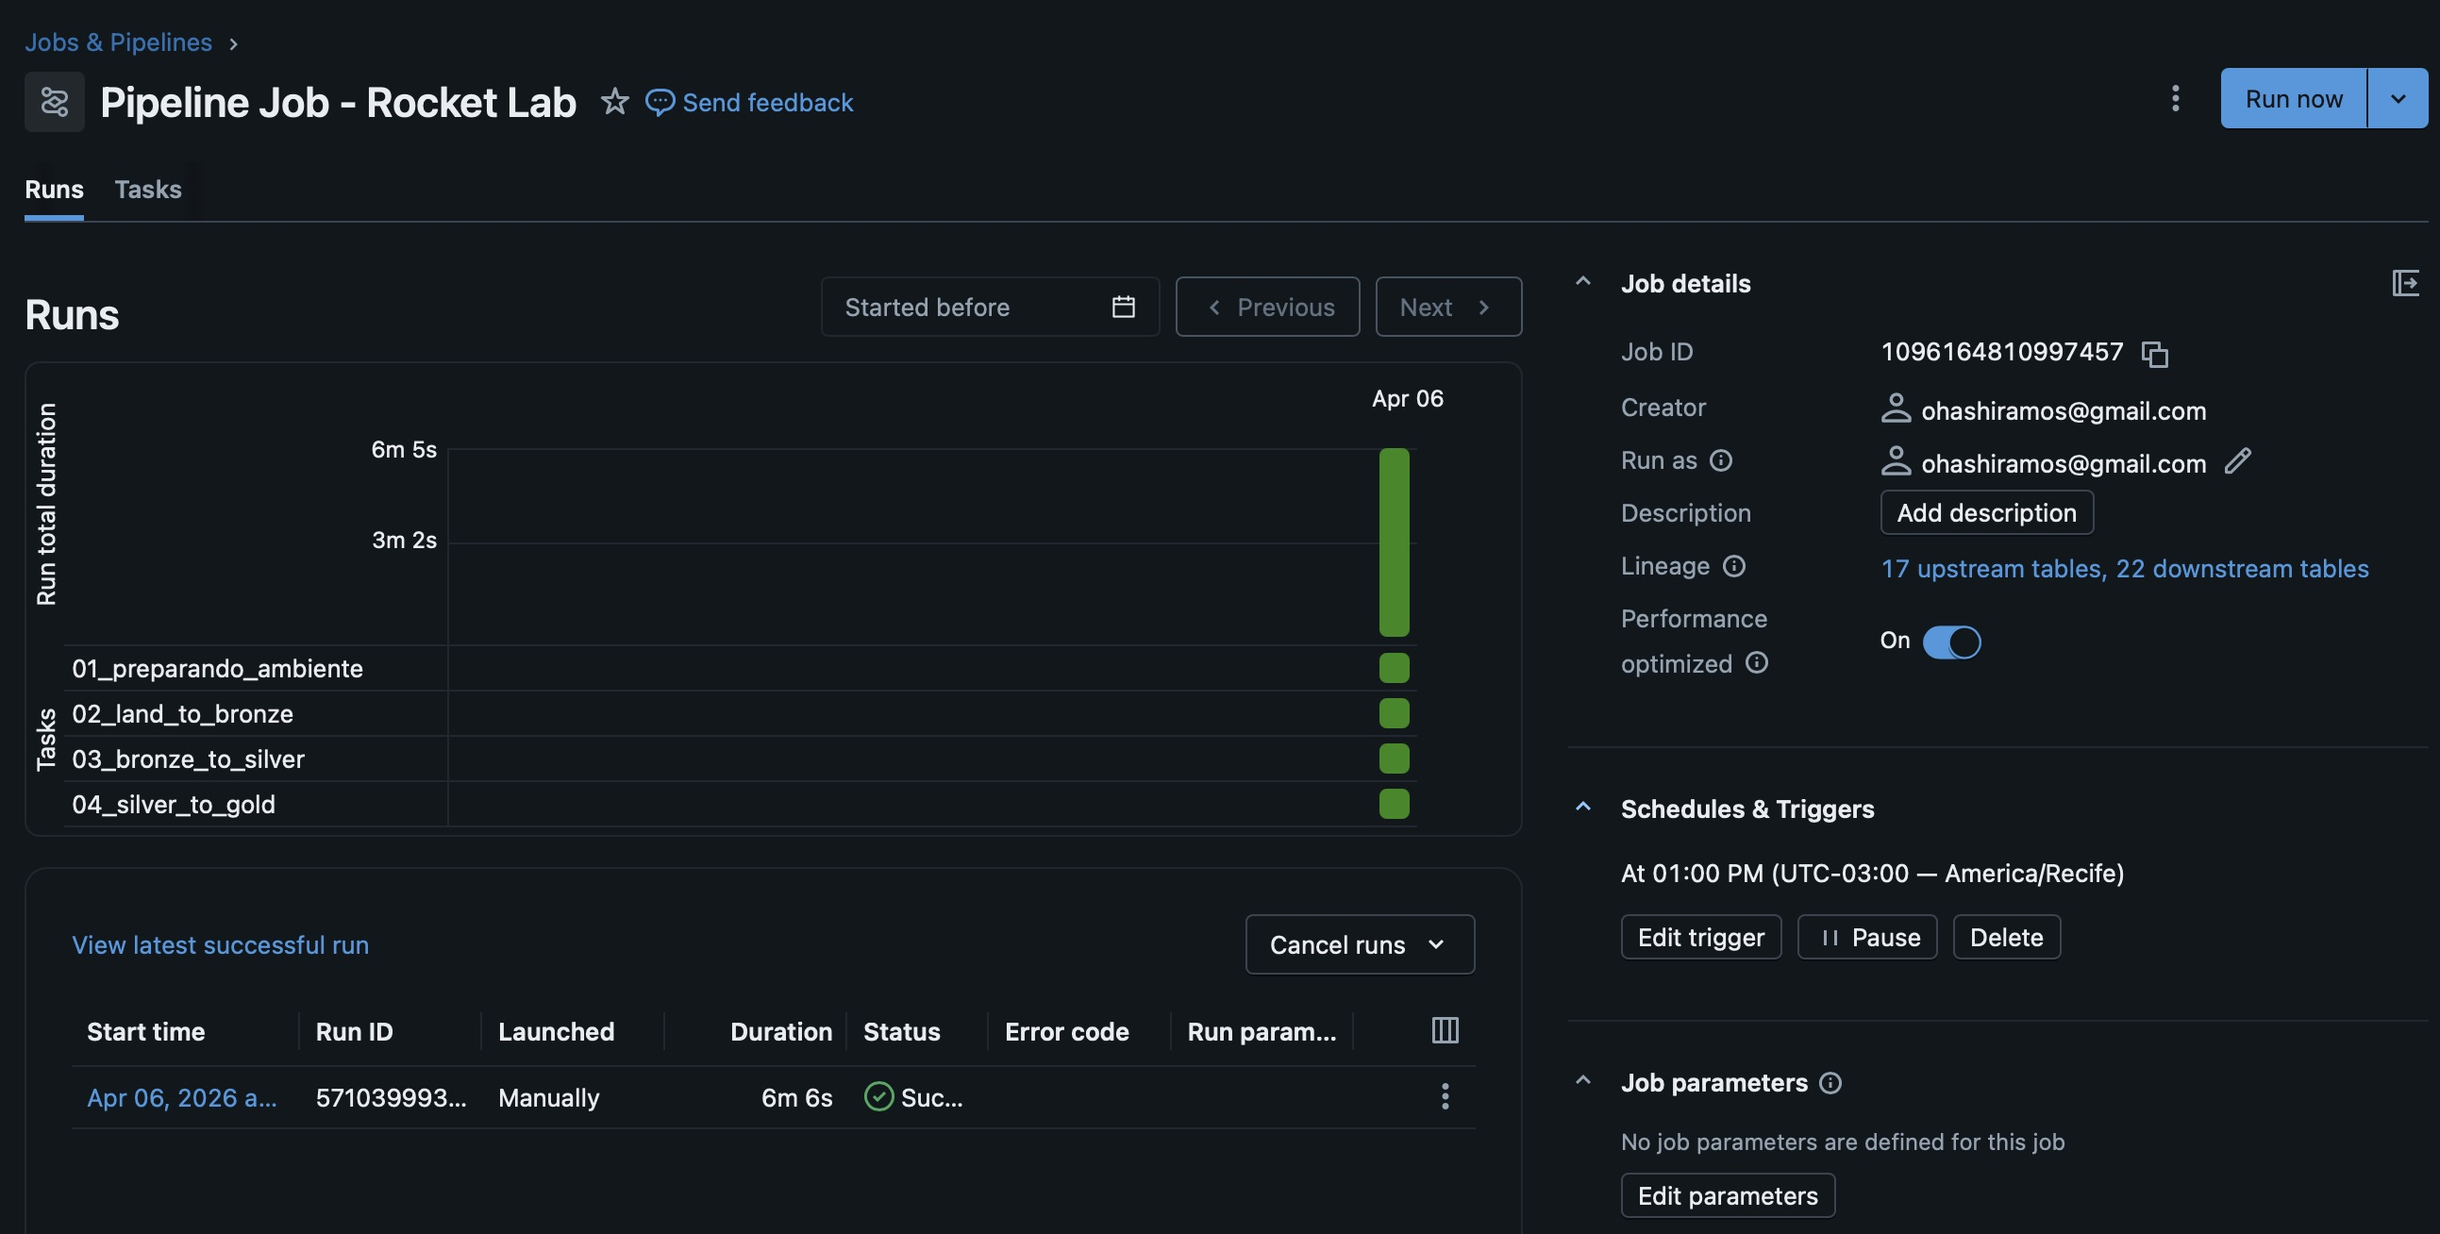
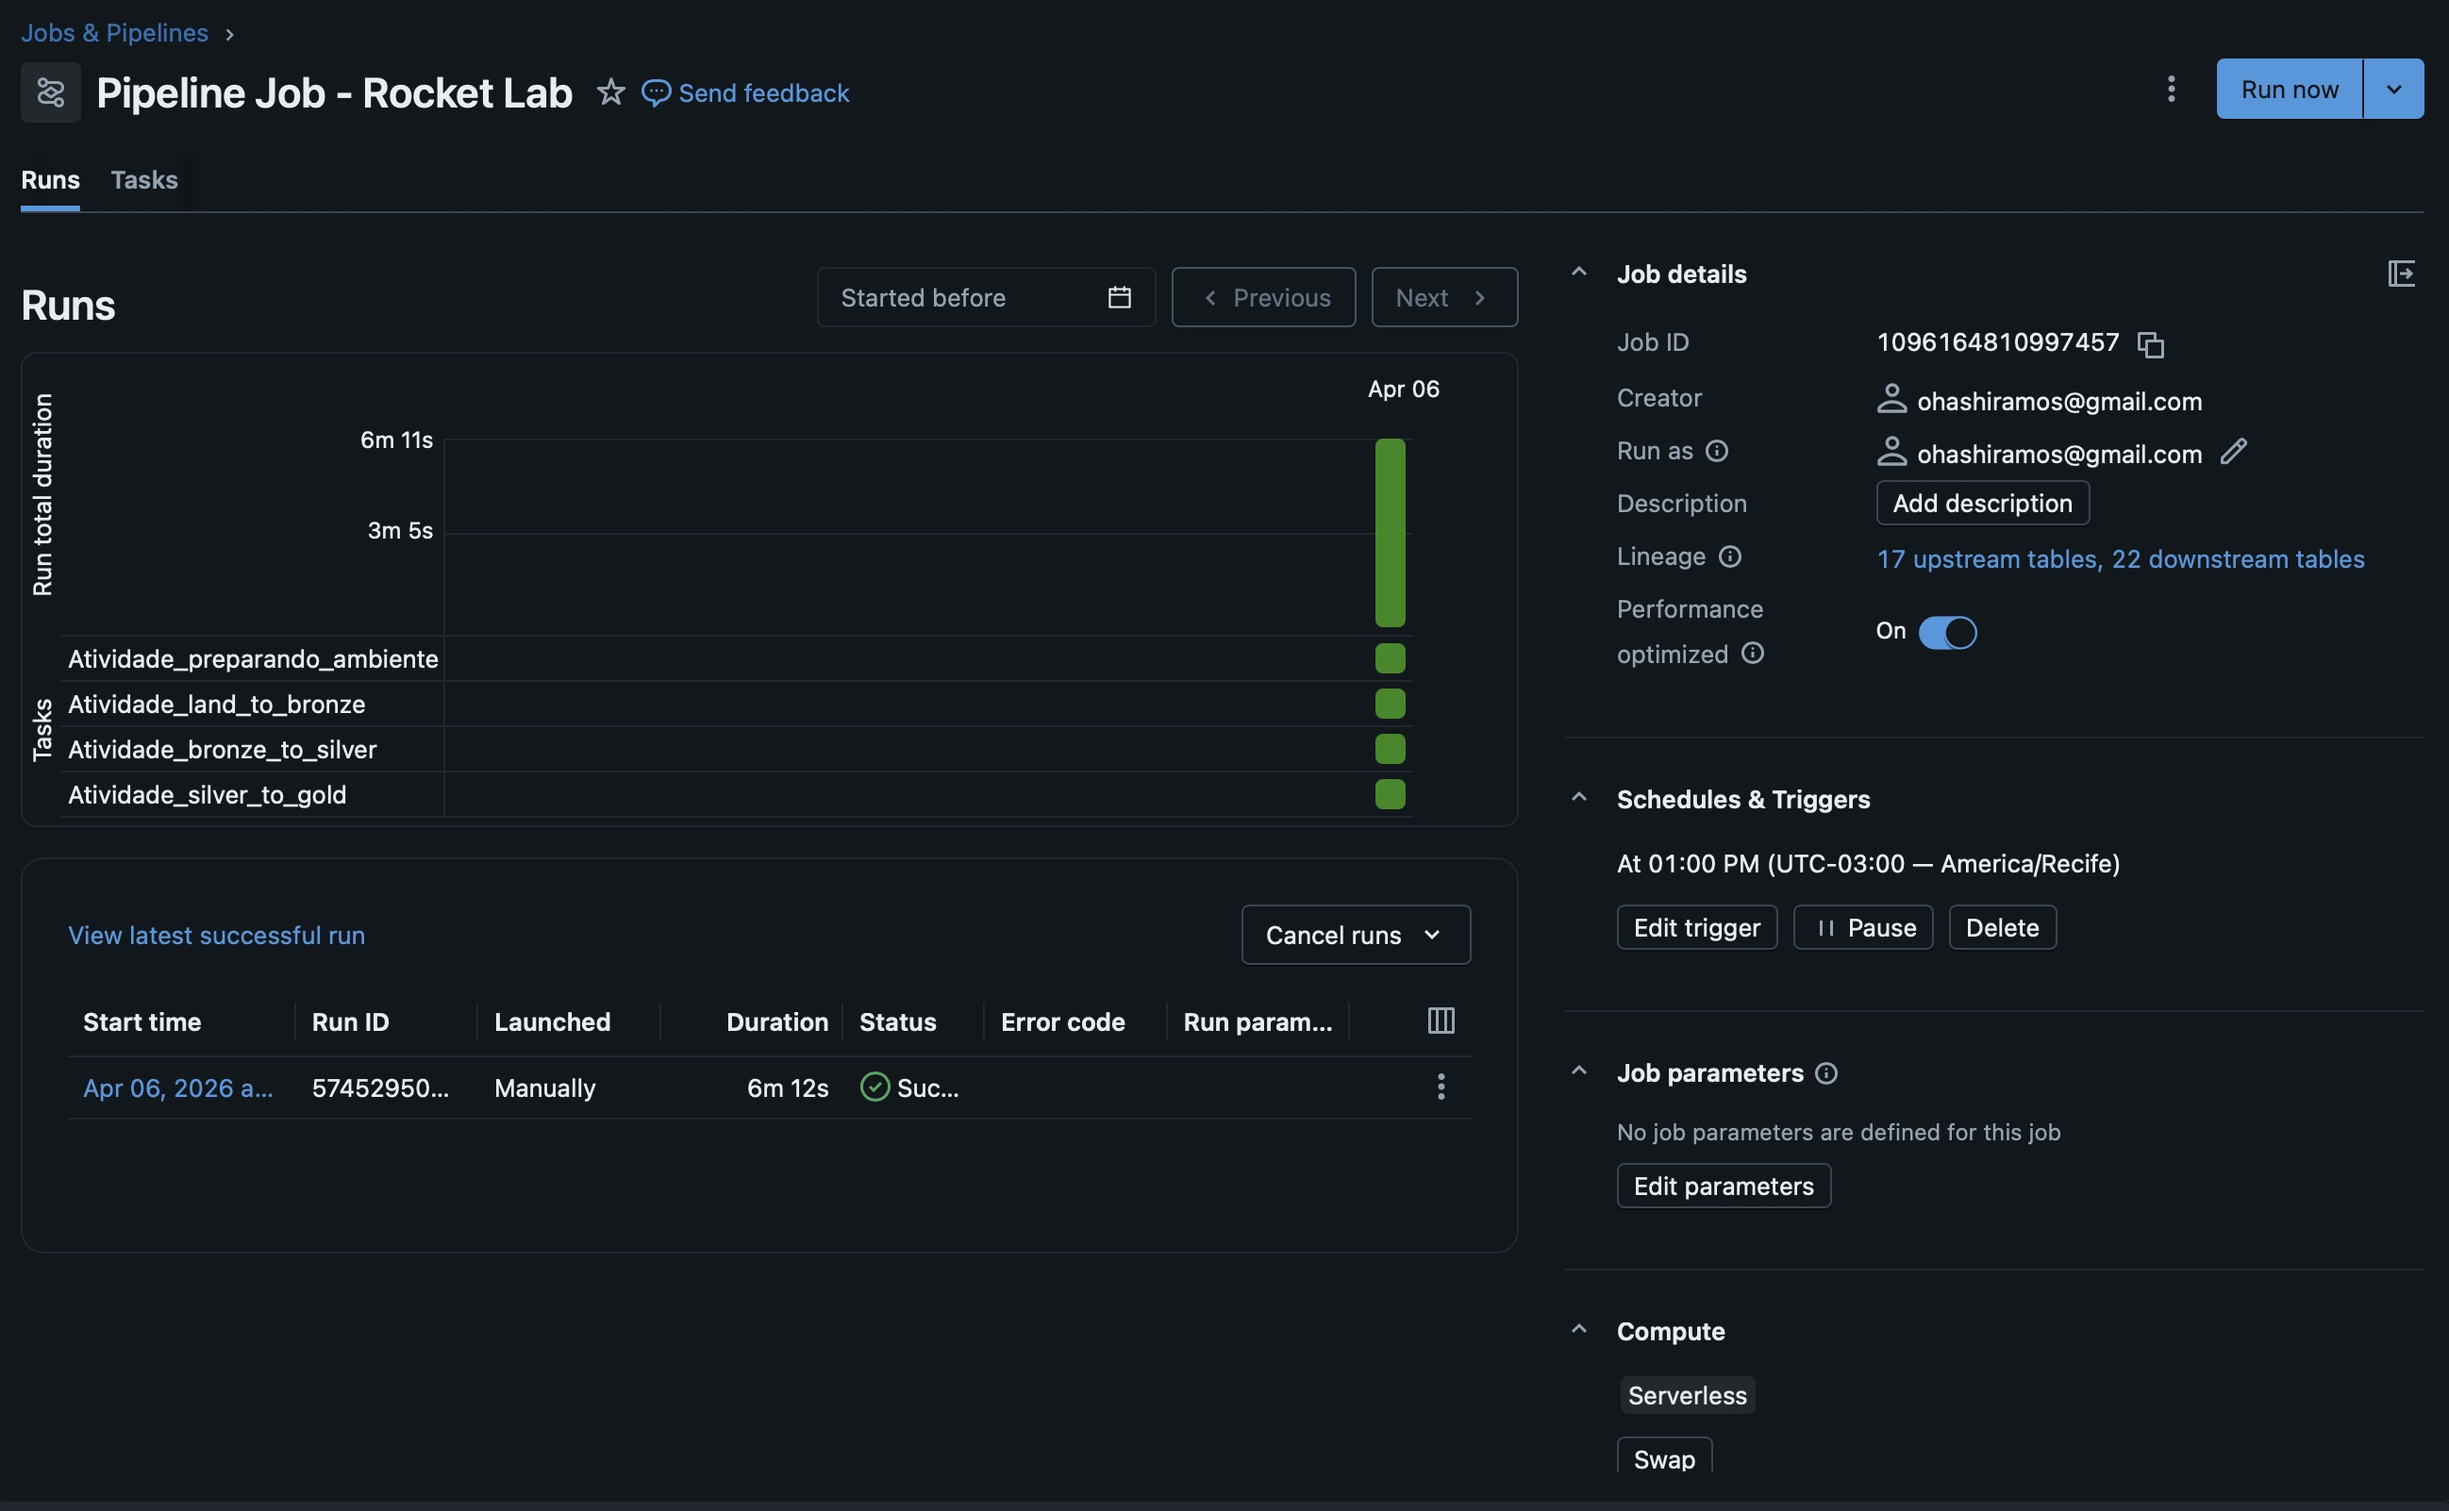
refactoring project for it to match the deploy expectations

diff --git a/README.md b/README.md
@@ -123,22 +123,22 @@ Este projeto implementa um pipeline de dados end-to-end que:
 
 | # | Nome | Descrição | Duração Est. |
 |---|------|-----------|--------------|
-| 00 | **00_atividades.ipynb** | Checklist e status do projeto | - |
-| 01 | **01_preparando_ambiente.ipynb** | Setup inicial - Catalog, Schemas, Volumes | 1-2 min |
-| 02 | **02_land_to_bronze.ipynb** | Ingestão de CSVs da landing → Bronze | 5-10 min |
-| 03 | **03_bronze_to_silver.ipynb** | Transformação e validação → Silver | 15-20 min |
-| 04 | **04_silver_to_gold.ipynb** | Análises e insights → Gold | 5-10 min |
+| 00 | **Atividades.ipynb** | Checklist e status do projeto | - |
+| 01 | **Atividade_preparando_ambiente.ipynb** | Setup inicial - Catalog, Schemas, Volumes | 1-2 min |
+| 02 | **Atividade_land_to_bronze.ipynb** | Ingestão de CSVs da landing → Bronze | 5-10 min |
+| 03 | **Atividade_bronze_to_silver.ipynb** | Transformação e validação → Silver | 15-20 min |
+| 04 | **Atividade_silver_to_gold.ipynb** | Análises e insights → Gold | 5-10 min |
 
 ### Fluxo de Execução
 
 ```
-01_preparando_ambiente
+Atividade_preparando_ambiente
         ↓
-02_land_to_bronze
+Atividade_land_to_bronze
         ↓
-03_bronze_to_silver
+Atividade_bronze_to_silver
         ↓
-04_silver_to_gold
+Atividade_silver_to_gold
 ```
 
 ---
@@ -154,7 +154,7 @@ Este projeto implementa um pipeline de dados end-to-end que:
 
 1. **Preparar o Ambiente**
    ```
-   Execute o notebook: 01_preparando_ambiente.ipynb
+  Execute o notebook: Atividade_preparando_ambiente.ipynb
    - Cria catálogo 'medalhao_at'
    - Cria schemas: bronze, silver, gold
    - Cria volume 'landing'
@@ -162,7 +162,7 @@ Este projeto implementa um pipeline de dados end-to-end que:
 
 2. **Ingerir Dados**
    ```
-   Execute o notebook: 02_land_to_bronze.ipynb
+  Execute o notebook: Atividade_land_to_bronze.ipynb
    - Lê CSVs da landing
    - Armazena em tabelas Delta (Bronze)
    - Adiciona timestamp_ingestion
@@ -170,7 +170,7 @@ Este projeto implementa um pipeline de dados end-to-end que:
 
 3. **Transformar e Limpar**
    ```
-   Execute o notebook: 03_bronze_to_silver.ipynb
+  Execute o notebook: Atividade_bronze_to_silver.ipynb
    - Remove duplicatas com Window Functions
    - Valida regras de negócio
    - Preenche valores nulos com estratégias específicas
@@ -179,14 +179,18 @@ Este projeto implementa um pipeline de dados end-to-end que:
 
 4. **Gerar Insights**
    ```
-   Execute o notebook: 04_silver_to_gold.ipynb
+  Execute o notebook: Atividade_silver_to_gold.ipynb
    - Cria tabelas analíticas
    - Calcula métricas de negócio
    - Gera rankings e comparações
    ```
 
 ### Agendamento
-O pipeline está configurado para executar **diariamente às 13h** com as 3 tasks em sequência (Bronze → Silver → Gold).
+O pipeline está configurado para executar **diariamente às 13h** com 4 tasks em sequência:
+1. Atividade_preparando_ambiente
+2. Atividade_land_to_bronze
+3. Atividade_bronze_to_silver
+4. Atividade_silver_to_gold
 
 ---
 
@@ -280,19 +284,17 @@ Agregação: categoria_produto, nome_vendedor, estado_vendedor
 ## 📈 Status do Projeto
 
 ### ✅ Completo
-- [x] Preparação do ambiente (01)
-- [x] Ingestão Bronze (02)
-- [x] Transformação Silver (03)
-- [x] Análises Gold (04)
+- [x] Preparação do ambiente (Atividade_preparando_ambiente)
+- [x] Ingestão Bronze (Atividade_land_to_bronze)
+- [x] Transformação Silver (Atividade_bronze_to_silver)
+- [x] Análises Gold (Atividade_silver_to_gold)
 - [x] Otimização e performance
-- [x] Agendamento diário
+- [x] Agendamento diário com dependências
 - [x] Tratamento de erros e auditoria
-
-### 📝 Próximos Passos (Entregáveis)
-- [ ] Notebooks em formato .ipynb com comentários finais
-- [ ] Arquivo .yaml do Job exportado do Databricks
-- [ ] Screenshot da execução bem-sucedida do Job
-- [ ] Repositório GitHub público
+- [x] Notebooks em formato .ipynb com comentários
+- [x] Arquivo .yaml do Job exportado do Databricks
+- [x] Screenshot da execução bem-sucedida do Job
+- [x] Publicação em repositório GitHub público
 
 ---
 
